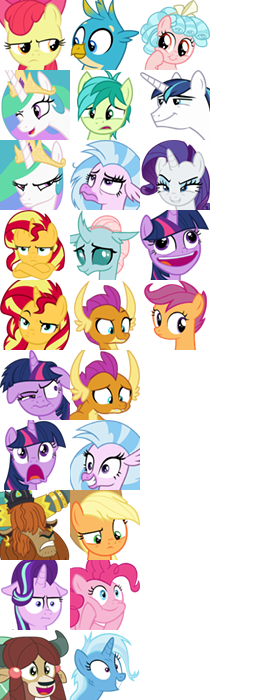
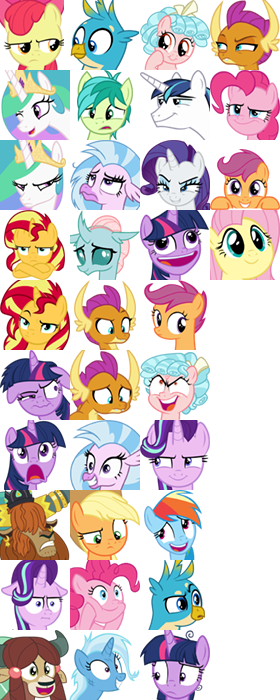
Add new ponymotes

diff --git a/JabbR/Chat.emoji.js b/JabbR/Chat.emoji.js
@@ -364,7 +364,8 @@ var EmojiIcons;
         "squeekiepie": "g", "twisheepish": "g", "skystarfine": "g", "ajeesh": "g", "pinkiesugar": "g", "flutternope": "g", "twishame": "g", "pinkiesmoosh": "g", "starlightspittle": "g", "sunburstnervous": "g", "spikewoke": "g",
 
         "abgrump": "i", "celestiawink": "i", "celestiasquint": "i", "sunsetgrump": "i", "sunspicious": "i", "twicoffee": "i", "twiomg": "i", "yak": "i", "starlightisee": "i", "yona": "i", "gallus": "i", "sandbaruhh": "i", "silverbored": "i", "ocellus": "i",
-        "smolder": "i", "smolderwelp": "i", "silverstream": "i", "ajpuzzle": "i", "pinkieeager": "i", "trixiecheer": "i", "cozyglow": "i", "shiningsmug": "i", "rarischeme": "i", "twipudding": "i", "scootaglance": "h"
+        "smolder": "i", "smolderwelp": "i", "silverstream": "i", "ajpuzzle": "i", "pinkieeager": "i", "trixiecheer": "i", "cozyglow": "i", "shiningsmug": "i", "rarischeme": "i", "twipudding": "i", "scootaglance": "i", "crazyglow": "i", "starlightsly": "i",
+        "rdeyy": "i", "galluswtf": "i", "twifret": "i", "smolderscowl": "i", "pinkiesmug": "i", "peekaloo": "i", "flutterball": "i"
     };
 
     var validHotglue = {

diff --git a/JabbR/Content/ponymoticon.css b/JabbR/Content/ponymoticon.css
@@ -321,3 +321,12 @@ td.ponymoticon { margin-top: 0; }
 .ponymoticon-rarischeme { background-position: -140px -140px; }
 .ponymoticon-twipudding { background-position: -140px -210px; }
 .ponymoticon-scootaglance { background-position: -140px -280px; }
+.ponymoticon-crazyglow { background-position: -140px -350px; }
+.ponymoticon-starlightsly { background-position: -140px -420px; }
+.ponymoticon-rdeyy { background-position: -140px -490px; }
+.ponymoticon-galluswtf { background-position: -140px -560px; }
+.ponymoticon-twifret { background-position: -140px -630px; }
+.ponymoticon-smolderscowl { background-position: -210px -0px; }
+.ponymoticon-pinkiesmug { background-position: -210px -70px; }
+.ponymoticon-peekaloo { background-position: -210px -140px; }
+.ponymoticon-flutterball { background-position: -210px -210px; }
